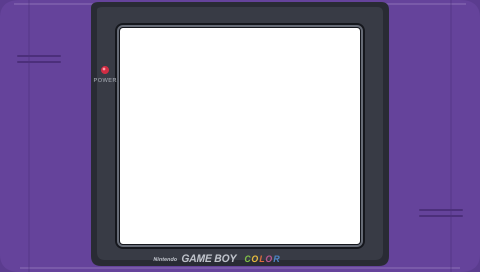
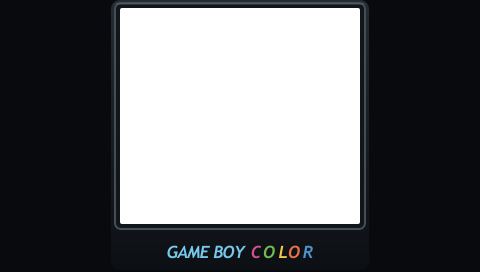
Simplify handheld borders to branded screen bezels

diff --git a/src/frontend/game_session.cpp b/src/frontend/game_session.cpp
@@ -112,15 +112,15 @@ bool borderAssetFor(db::System system, BorderAsset& out) {
     switch (system) {
         case db::System::GameBoy:
             out = {rs_asset_border_gb_png, rs_asset_border_gb_png_len,
-                   120.f, 28.f, 240.f, 216.f};
+                   120.f, 8.f, 240.f, 216.f};
             return true;
         case db::System::GameBoyColor:
             out = {rs_asset_border_gbc_png, rs_asset_border_gbc_png_len,
-                   120.f, 28.f, 240.f, 216.f};
+                   120.f, 8.f, 240.f, 216.f};
             return true;
         case db::System::GBA:
             out = {rs_asset_border_gba_png, rs_asset_border_gba_png_len,
-                   60.f, 16.f, 360.f, 240.f};
+                   75.f, 8.f, 330.f, 220.f};
             return true;
         default:
             return false;

diff --git a/assets/overlays/README.md b/assets/overlays/README.md
@@ -1,8 +1,9 @@
 # RetroShell handheld borders
 
 These GB, GBC, and GBA borders are original RetroShell vector assets. They use
-hardware-inspired proportions, colors, controls, and model-name typography
-without copying game artwork or third-party overlay packs.
+the handhelds' native display proportions inside a dark screen-lens bezel, with
+model-name typography on the lower bezel and no game artwork or console-body
+decoration.
 
 The source SVGs and generated PNGs are covered by RetroShell's root MIT
 license.
